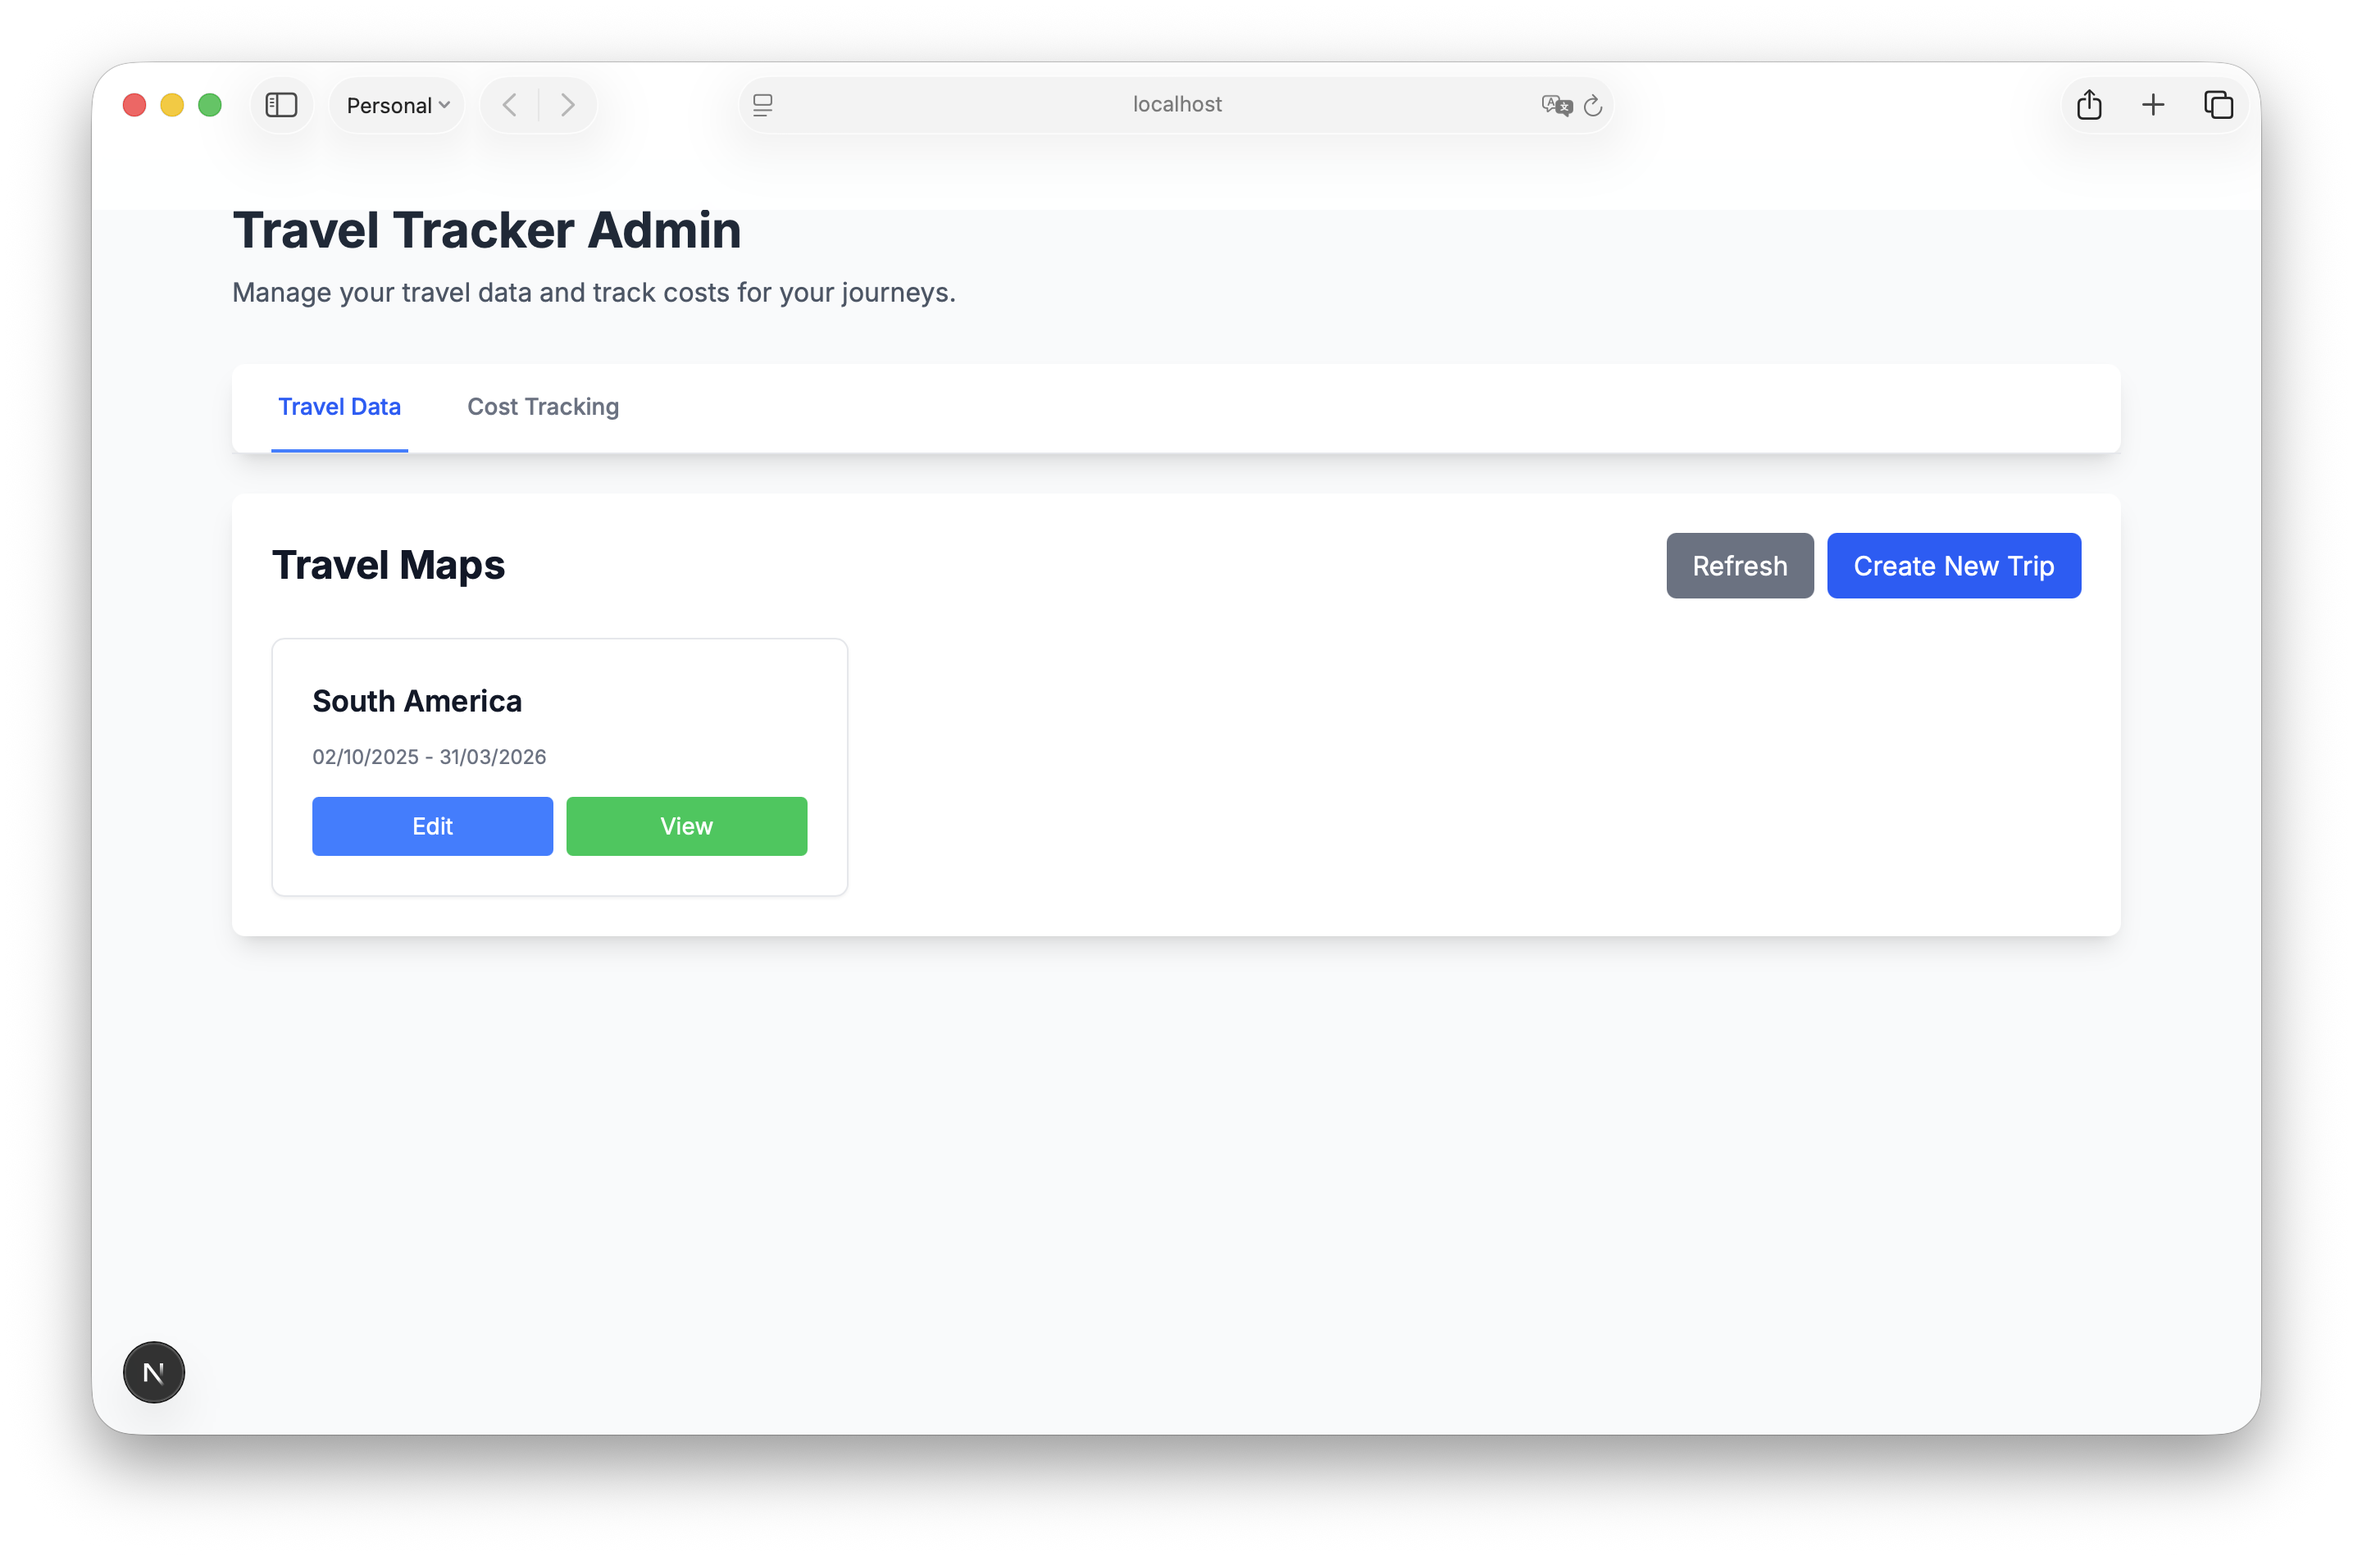
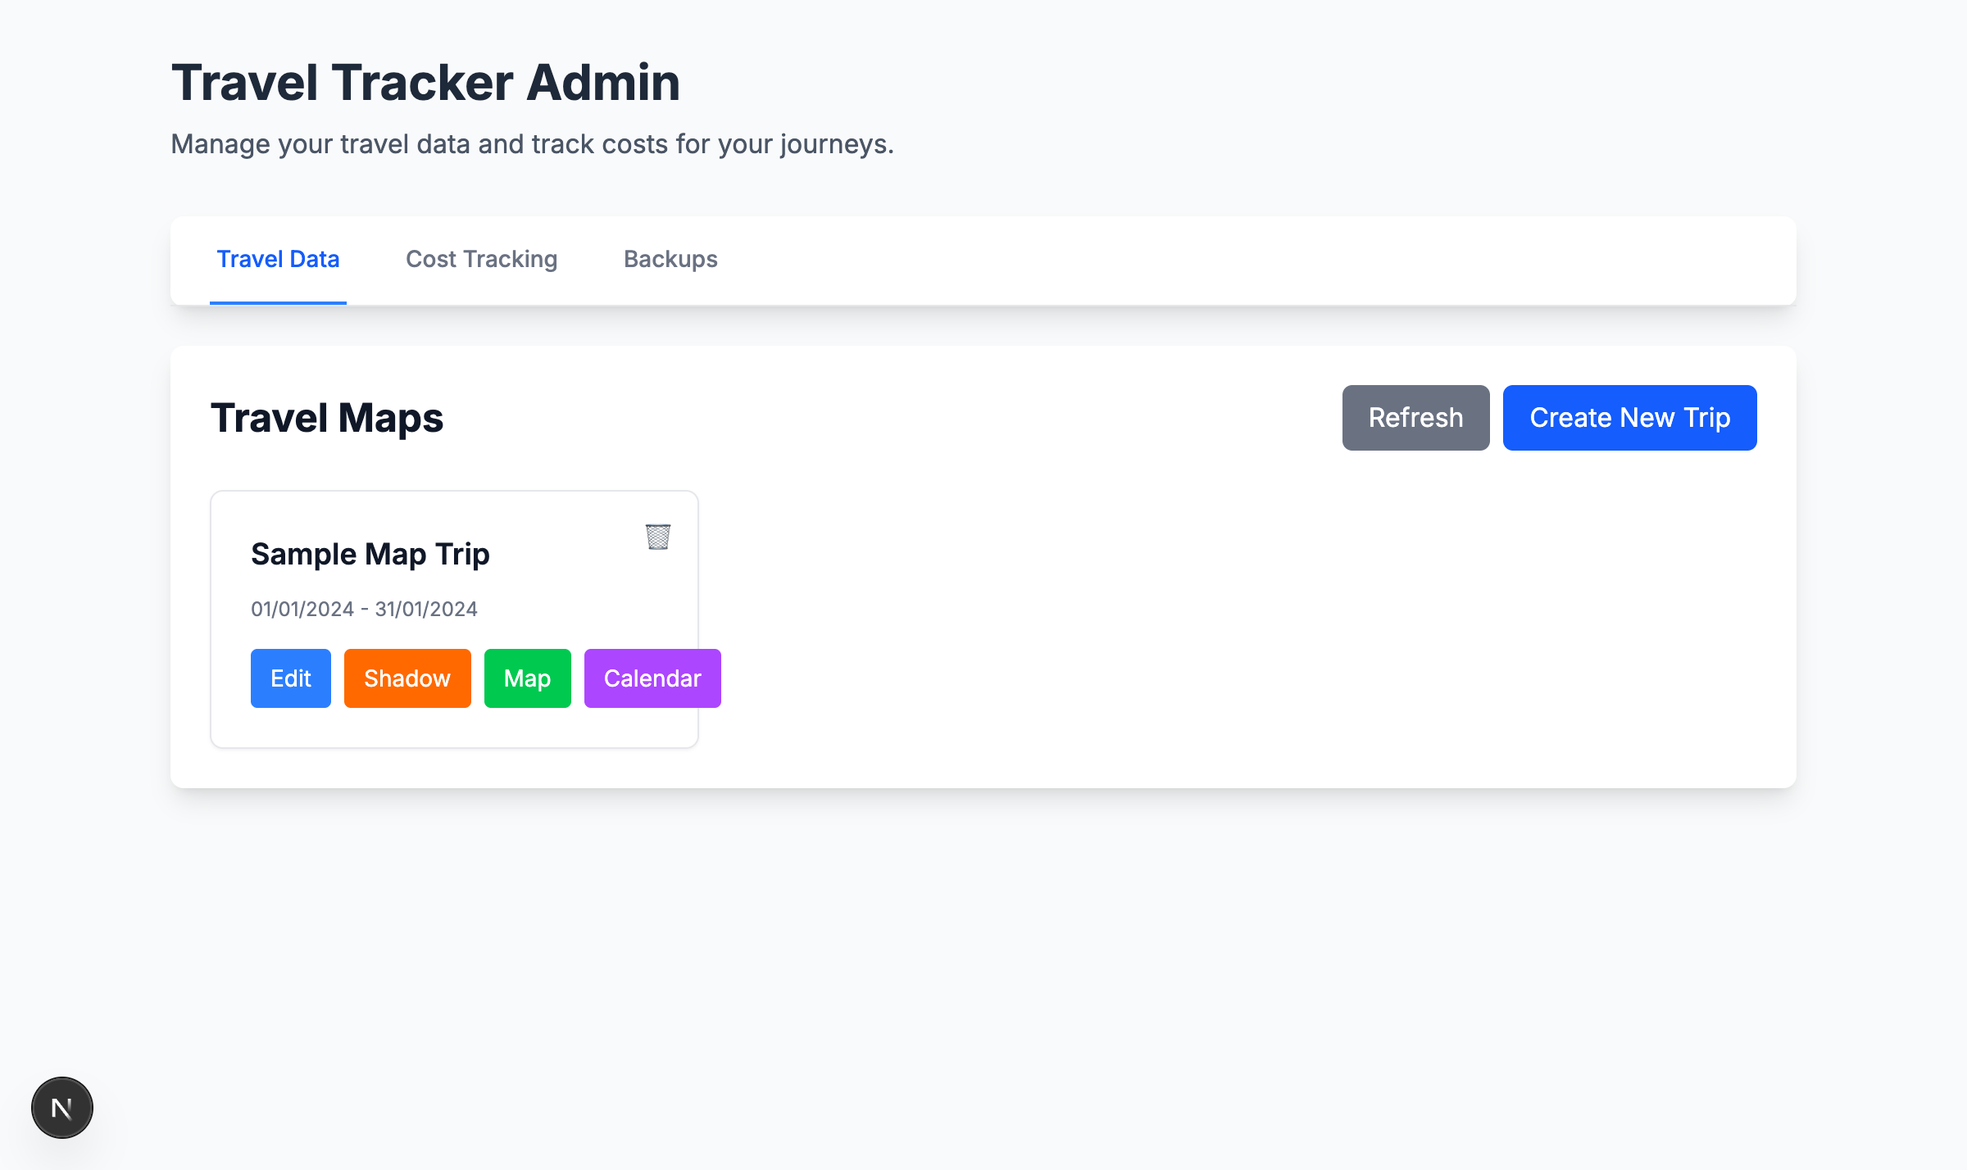
Documentation updated with new screenshots:
**Captured Screenshots:**
- `embeddable_map.png` - Embeddable map view
- `admin_overview.png` - Admin dashboard
- `cost_tracker.png` - Cost tracking overview
- `cost_tracker_edit.png` - Cost tracker editor
- `edit_trip.png` - Trip editing interface
- `map_view.png` - Interactive map with routes
- `calendar_view.png` - Calendar timeline view

**Updated Files:**
- `README.md` - Added 5 new screenshots with descriptions showcasing key features
- `TEST-DATA-SETUP.md` - Added example output section with 3 screenshots

**Git Status:**
Branch: `vk/8857-update-docs-with` (tracks `github/vk/8857-update-docs-with`)

The screenshots showcase all major features: map visualization, calendar timeline, admin dashboard, trip editing, and comprehensive cost tracking including YNAB integration. Ready to commit and push to github when approved.

diff --git a/README.md b/README.md
@@ -4,6 +4,10 @@
 
 A web application that visualizes travel journeys on an OpenStreetMap (OSM) interface, allowing users to trace their routes through various transportation methods while displaying chronological travel notes, Instagram posts, and blog content alongside the map.
 
+![Admin Interface](./public/screenshots/admin_overview.png)
+
+The admin interface provides a comprehensive dashboard for managing your travel data, including trips, cost tracking, and backups.
+
 Furthermore, it includes a private cost tracking feature that allows users to track their expenses and budgets.
 
 ## Features
@@ -12,16 +16,34 @@ Furthermore, it includes a private cost tracking feature that allows users to tr
 - Different route styles based on transportation type (air, land, sea)
 - Chronological travel timeline and calendar interface
 
+![Map View](./public/screenshots/map_view.png)
+
+The interactive map view displays your travel routes with location markers, transportation routes, and detailed trip information.
+
+![Calendar View](./public/screenshots/calendar_view.png)
+
+The calendar view provides a chronological overview of your journey, showing locations and activities by date.
+
+![Edit Trip](./public/screenshots/edit_trip.png)
+
+The trip editor allows you to add locations, routes, accommodations, and manage all aspects of your travel data.
+
 - Instagram post integration
 - Blog post integration
 - Comprehensive travel expense tracking and budget management
+
+![Cost Tracker Overview](./public/screenshots/cost_tracker.png)
+
+The cost tracking overview shows your budget status, expenses, and spending summaries at a glance.
+
+![Cost Tracker Edit](./public/screenshots/cost_tracker_edit.png)
+
+The cost tracker editor provides comprehensive tools for managing budgets, expenses, categories, and YNAB integration.
+
 - YNAB (You Need A Budget) integration for importing financial data
 - **Backup Management System** with restoration capabilities and automated cleanup
 - Responsive design for desktop and mobile
 - Server-side data storage
-
-![Travel Tracker Screenshot](./public/screenshots/admin_overview.png)
-![Travel Tracker Screenshot](./public/screenshots/cost_tracker.png)
 
 ## Technologies Used
 

diff --git a/TEST-DATA-SETUP.md b/TEST-DATA-SETUP.md
@@ -2,6 +2,16 @@
 
 Use the same trip/location/route payloads as the integration test in `src/app/__tests__/integration/map-functionality.test.ts` to seed a server with realistic map data. The workflow mirrors the test pyramid (create trip → add locations → add route points).
 
+## Example Output
+
+After following these steps, you'll have sample data that looks like this:
+
+![Sample Map View](./public/screenshots/map_view.png)
+
+![Sample Calendar View](./public/screenshots/calendar_view.png)
+
+![Sample Cost Tracker](./public/screenshots/cost_tracker.png)
+
 ## Setup Instructions
 
 1. **Start the app** (admin or embed is fine) and export the variables used below:
